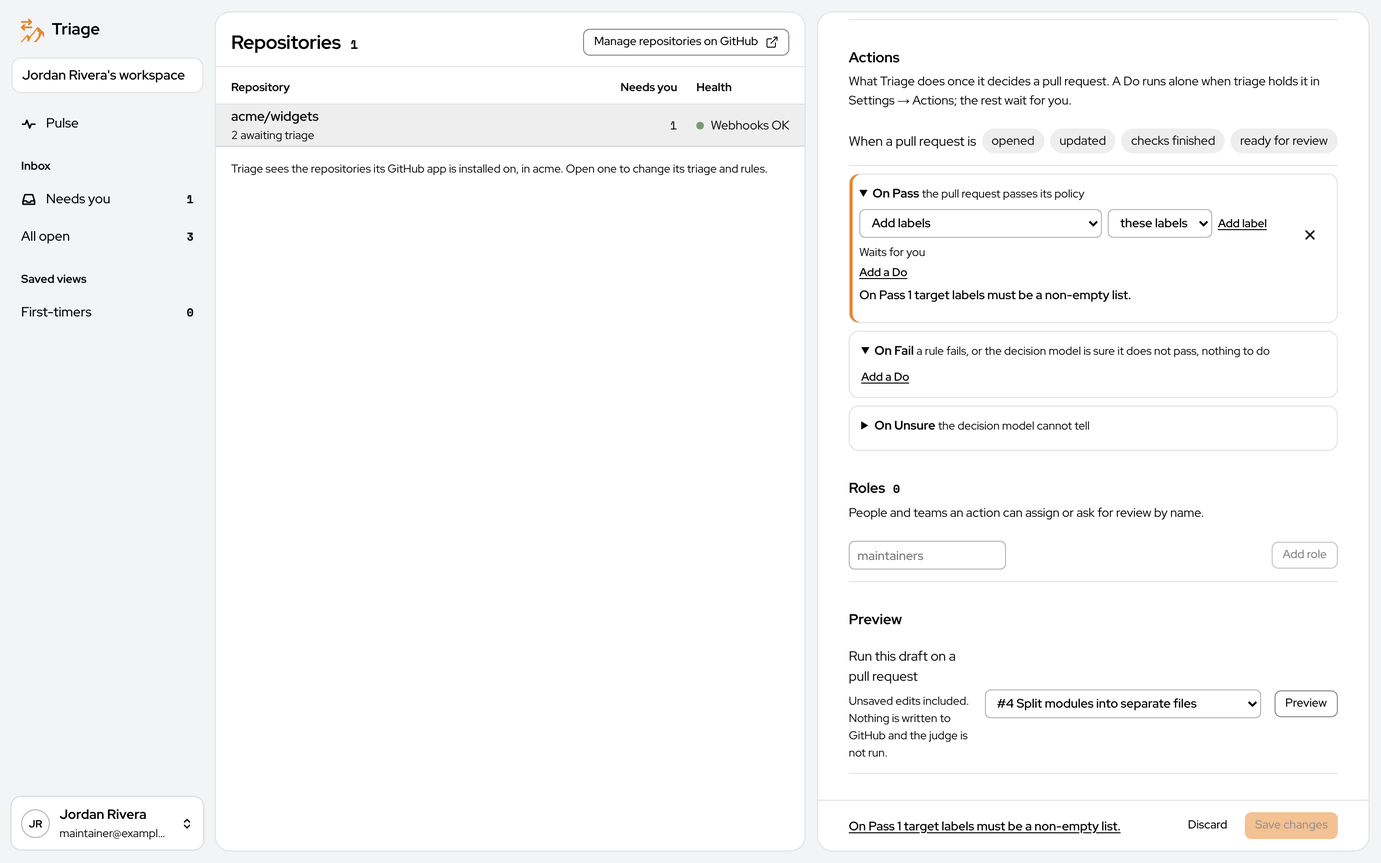
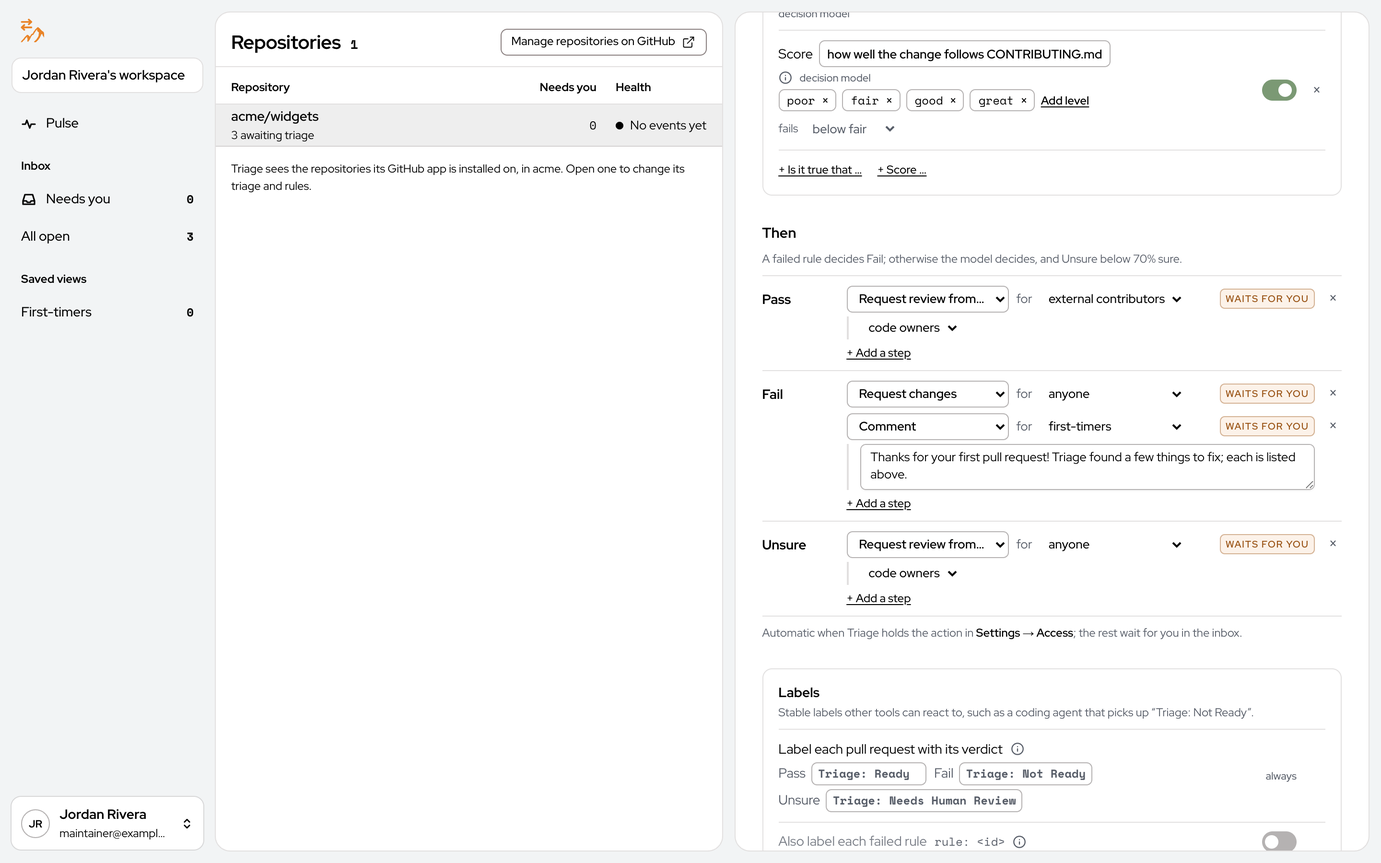
docs(manual): update the user manual for the current portal with fresh screenshots

diff --git a/docs/Corbits Triage User Manual/Corbits Triage User Manual.md b/docs/Corbits Triage User Manual/Corbits Triage User Manual.md
@@ -2,6 +2,16 @@
 
 Oct 13, 2026 · @Brian J. Fox
 
+## Contents
+
+1. [What Corbits Triage is](#what-corbits-triage-is)
+2. [Getting started](#getting-started)
+3. [Setting up a repository: rules, verdicts and actions](#setting-up-a-repository-rules-verdicts-and-actions)
+4. [Day to day: the Inbox](#day-to-day-the-inbox)
+5. [Settings: people, access and workspace configuration](#settings-people-access-and-workspace-configuration)
+6. [The audit log](#the-audit-log)
+7. [Glossary and common questions](#glossary-and-common-questions)
+
 ## What Corbits Triage is
 
 Corbits Triage is an assistant for people who maintain code on GitHub. It looks at every open pull request in the repositories you choose, checks each one against the rules you set, and tells you whether it looks good to merge. Every pull request gets one of three verdicts: **Pass**, **Fail** or **Unsure**, along with a short list of reasons.
@@ -16,7 +26,7 @@ Think of it as a first reader. It does the routine checking (Did the tests pass?
 
 ### What it never does on its own
 
-Nothing runs until you turn it on. Installing the GitHub App only records your repositories, with triage switched off. A repository is checked only after someone turns on **Triage pull requests in this repository** and saves. Even then, a new workspace automates nothing: Triage suggests actions, and a person clicks to carry them out, until you decide which kinds of actions Triage may run by itself.
+Nothing runs until you turn it on. Installing the GitHub App only records your repositories, with triage switched off. A repository is checked only after someone turns on **Triage pull requests in this repository**. Even then, a new workspace automates nothing: Triage suggests actions, and a person clicks to carry them out, until you decide which actions Triage may run by itself, and in which repositories.
 
 ### The three parts
 
@@ -66,75 +76,94 @@ Once all three steps are done, the portal takes you to the Inbox. Nothing appear
 
 ## Setting up a repository: rules, verdicts and actions
 
-Every repository has its own page under **Repositories** in the left rail. That page is where you decide what Triage checks, how it reaches a verdict, and what it does afterward. Nothing on the page takes effect until you press **Save changes** at the bottom.
+Every repository has its own page under **Repositories** in the menu under your name. That page is where you decide what Triage checks, how it reaches a verdict, and what it does afterward. There is no Save button: every change is saved as you make it. The word beside the repository's name says where things stand: **Saving…** while a change is on its way, **Saved** once it is stored, and **Not saved** if something is unfinished or the save failed.
 
-![The repository page for acme/widgets: the triage switch at the top, then the list of rules, each with its own on/off switch](images/06.png)
+![The repository page for acme/widgets: Saved beside the name, the triage switch, the Policy card, and the Size and Checks rule cards, each rule with its own switch](images/06.png)
 
 ### Turning triage on
 
-The switch labeled **Triage pull requests in this repository** is the master control. While it is off, Triage ignores the repository entirely. When you turn it on and save, Triage immediately checks every open pull request, and from then on it reacts to each new pull request event as it happens. The link **Triage open pull requests again** re-checks everything that is currently open, which is useful after you change the rules.
+The switch labeled **Triage pull requests in this repository** is the master control. While it is off, Triage ignores the repository entirely and the rest of the page is grayed out. Switch on at least one rule first; the page tells you if you have not. When you turn triage on, Triage immediately checks every open pull request, and from then on it reacts to each new pull request event as it happens. The link **Triage open pull requests again** re-checks everything that is currently open, which is useful after you change the rules.
+
+### Policy
+
+The **Policy** card says where the repository's rules and actions are kept. At first they are kept in Corbits Triage. Press **Export to repository** to open a pull request that adds them to the repository as a file called `.corbits-triage.yaml`. Once that file is on the default branch, it is the policy: changes to it are reviewed like any other code, and the rules and actions on this page become read-only.
+
+![The Policy card for a repository whose .corbits-triage.yaml was changed on GitHub: Not in sync, with Use file and Edit on GitHub buttons. The rules below are grayed out because the file decides them](images/07.png)
+
+- **Edit on GitHub** opens the file on GitHub.
+- When someone changes the file, the card says **Not in sync** until Triage reads it again. Press **Use file** to read it now.
+- If the file has a mistake, the card says why and Triage keeps using the last policy it could read.
+
+A file can also start from a workspace-wide policy with `extends`, and then set only what differs for this repository. This is useful when many repositories should follow the same rules.
 
 ### Rules
 
-A rule asks one question about a pull request and answers pass, fail or unconfirmed. The **Rules** list shows every rule, each with a switch. Press **Reset to recommended** to load a sensible starting set. The recommended rules are:
+A rule asks one question about a pull request and answers pass, fail or unconfirmed. The rules are grouped into three cards, and each rule has a switch. The heading shows how many are on. Hover over the small **i** beside a rule for a one-line explanation of how it is checked.
 
-- **Flag pull requests over N files changed** and **over N lines changed**. Big changes are hard to review. You choose the limits.
-- **Require a linked issue** from GitHub or Linear. The pull request's description must mention an issue.
-- **Flag merge conflicts with the base branch.**
-- **CI must pass before merge.** The repository's automated checks must be green.
-- **Never accept changes to** certain paths, such as vendored code. Add as many paths as you like.
-- **Check the change is focused on one thing** and **Check docs are updated when behavior changes.** These two carry a **Decision model** tag because they need judgment that GitHub data alone cannot provide. The AI model you connected during setup answers them.
+- **Size**: **Flag pull requests over N files changed** and **over N lines changed**. Big changes are hard to review. You choose the limits.
+- **Checks**, facts GitHub already knows:
+  - **Require a linked issue** from GitHub, Linear or either. The pull request's title, description, commits or branch must mention an issue.
+  - **No merge conflicts with the base branch.**
+  - **CI must pass.** The repository's automated checks must be green. While they are still running, the rule is unconfirmed rather than passed.
+  - **Never accept changes to** certain paths, such as vendored code. Add as many paths as you like.
+- **Judgement**, questions the decision model answers from the diff and the documentation. These are optional, and each carries a **decision model** tag:
+  - **The change is focused on one thing.**
+  - **Docs are updated when behavior changes.**
 
-Two rules always run and have no switch: a draft pull request is never ready, and a pull request with changes requested is waiting on its author.
+Two rules always run and have no switch: a draft pull request waits until it is ready for review, and a pull request with changes requested fails.
 
-Press **Add a rule** to see the other kinds of rules you can add. The plain rules work only from facts GitHub already knows, so they are free and always give the same answer for the same pull request. The decision-model rules cost one model request per pull request.
+Below the Judgement rules you can add up to eight rules of your own. Each one is a question for the decision model:
 
-![The Add a rule menu listing the custom rules: paths must not change, paths must change together, title or branch pattern, label required, diff must not contain, minimum approvals, author is, and the decision-model questions](images/07.png)
+- **+ Is it true that …** asks a yes-or-no question, such as "Is it true that the title says what changed?" The rule fails when the answer is no.
+- **+ Score …** asks the decision model to place the pull request on a scale of levels you name, worst first, such as poor, fair, good and great. Choose the level it **fails** below, or **never** to record the score without failing anyone.
 
-| Rule | What it checks |
-| --- | --- |
-| Paths must not change | Fails when any listed path is touched. |
-| Paths must change together | When one set of paths changes, another must change too. For example, a change to the API must come with a change to its tests. |
-| Title matches a pattern | The title must match a pattern you write. |
-| Branch matches a pattern | The branch name must match a pattern you write. |
-| Label required | A particular label must be on the pull request. |
-| Diff must not contain | Added lines must not contain a pattern, such as a debugging statement. |
-| Minimum approvals | At least this many people must have approved. |
-| Author is | Records who opened it: named people, a role, or a kind of contributor such as a first-timer or a bot. This one informs the verdict but never fails it. |
-| Is it true that... | A yes-or-no question for the decision model. Fails when the answer is no. |
-| Score from 0 to 10 | The decision model scores the pull request. Fails below the minimum you set. |
+![The Judgement card: the two built-in decision-model rules, then an Is it true that rule and a Score rule with the levels poor, fair, good and great and fails below fair](images/08.png)
+
+Rules in the Size and Checks cards only use facts GitHub already knows, so they cost nothing and always give the same answer for the same pull request. Judgement rules cost one model request per pull request.
 
 ### How the verdict is decided
 
-The **Verdict** section explains the decision in plain words, and it updates as you change the rules.
+The **Then** section starts with one line that sums up the decision.
 
-![The Verdict section: Fail as soon as any hard rule fails; Pass when the decision model is at least 70% sure; Fail when it is at least 70% sure the pull request does not pass; Unsure otherwise](images/08.png)
+![The Then section: the line A failed rule decides Fail; otherwise the model decides, and Unsure below 70% sure, then the steps for Pass, Fail and Unsure, each marked Waits for you](images/09.png)
 
-1. If any plain rule fails, the verdict is **Fail** right away. The model is not consulted, so nothing is spent.
-2. Otherwise the decision model reads the whole pull request together with every rule's result and answers one question: does this pull request pass this repository's policy? If it is at least 70% sure the answer is yes, the verdict is **Pass**. If it is at least 70% sure the answer is no, the verdict is **Fail**.
-3. Anything in between is **Unsure**, which means a person should look. Triage never guesses.
+1. If any rule fails, the verdict is **Fail** right away. That includes a Judgement rule the decision model answered no to.
+2. If the repository has no Judgement rules, there is nothing left to judge: the verdict is **Pass** when every rule passes, and **Unsure** when a rule could not be confirmed, such as CI that is still running.
+3. Otherwise the decision model reads the whole pull request together with every rule's result and answers one question: does this pull request pass this repository's policy? If it is at least 70% sure the answer is yes, the verdict is **Pass**. If it is at least 70% sure the answer is no, the verdict is **Fail**. Anything in between is **Unsure**, which means a person should look. A pull request with a Judgement rule the model could not confirm is never more than Unsure.
 
 Draft and closed pull requests are not decided at all.
 
 ### Actions
 
-The **Actions** section says what Triage should do once it has a verdict. First, **When a pull request is** lists the events that wake Triage: opened, updated, checks finished and ready for review. All four are on by default.
+Below the summary line are three lists of steps, one per verdict: **Pass**, **Fail** and **Unsure**. Press **+ Add a step** to add one. Each step names an action and who it is for.
 
-Below that are three lists of Dos, one per verdict: **On Pass**, **On Fail** and **On Unsure**. Press **Add a Do** to add one. A Do can add labels, assign someone, request a review, post a comment, approve, request changes, or close the pull request. By default, On Unsure asks the code owners for a review.
+| Action | What it does |
+| --- | --- |
+| Approve | Approves the pull request on GitHub. |
+| Merge | Merges the pull request. Only on Pass. |
+| Close | Closes the pull request. |
+| Comment | Posts a comment you write. |
+| Request changes | Sends the author a review listing the rules to fix. |
+| Request review from… | Asks the code owners, named people or teams to review. |
+| Assign to… | Assigns the pull request to the author, the code owners, named people or teams. |
+| Add label… | Adds the labels you list. |
 
-![Adding a Do to the On Pass list: a dropdown with Add labels, Assign, Request review, Comment, Approve, Request changes and Close, a label picker, and a note that the Do waits for you](images/09.png)
+The **for** choice limits a step to some authors: **anyone**, **first-timers**, **maintainers**, **external contributors**, **bots**, **a GitHub team…** or **specific people…**. For example, a Fail step can post a friendly comment for first-timers only. By default, Unsure asks the code owners for a review.
 
-Each Do shows whether it **Waits for you** or runs on its own. If something is incomplete, such as a label Do with no labels chosen, the page tells you in red and keeps the **Save changes** button disabled until you fix it.
+Each step shows whether it **Waits for you** or runs on its own. If something is incomplete, such as a comment with no text, the step says **Not saved yet** in red and the rest of your changes are still saved.
 
-Triage only carries out a Do on its own when your workspace allows that kind of Do under Settings → Access. Everything else waits in the Inbox for a person to click. A brand-new workspace automates nothing, so you can watch what Triage suggests before you let it act.
+Triage only carries out an action on its own when the workspace allows that action in that repository under [Settings → Access](#access). Everything else waits in the Inbox for a person to click. A brand-new workspace automates nothing, so you can watch what Triage suggests before you let it act. Two actions are always held for a person: Close on Unsure, and Merge on anything but Pass.
 
-### Roles and Preview
+While a pull request's CI is still running, Triage holds every action, and its comment on GitHub lists them under **Waiting for checks to finish**. They go ahead once the checks are done.
 
-![The Roles and Preview sections: a field to add a role such as maintainers, and a dropdown to run the draft rules against one open pull request](images/10.png)
+### Labels
 
-**Roles** are names for groups of GitHub users or teams, such as maintainers or security. A Do can then say "assign the maintainers" instead of naming people one by one.
+The **Labels** card sets the labels Triage keeps on every pull request so that other tools, such as a coding agent, can react to them.
 
-**Preview** lets you try your draft rules against one open pull request before saving. Pick a pull request from the dropdown and press **Preview**. Nothing is written to GitHub and the decision model is not run, so it is free and safe to repeat.
+![The Labels card: the verdict labels Triage: Ready, Triage: Not Ready and Triage: Needs Human Review, marked always, and the switch Also label each failed rule with rule: <id>](images/10.png)
+
+- **Label each pull request with its verdict** is always on. Triage puts the verdict's label on the pull request and takes the other two off. The defaults are **Triage: Ready** for Pass, **Triage: Not Ready** for Fail and **Triage: Needs Human Review** for Unsure. You can rename them.
+- **Also label each failed rule** adds a label such as `rule: linked-issue` for every rule that failed.
 
 ## Day to day: the Inbox
 
@@ -190,7 +219,7 @@ Expanding **rules passed** shows every rule with a short note on why it passed, 
 
 ### Taking action
 
-The bar at the bottom of the pane always offers the next step first. For a passing pull request that is **Merge**, for a failing one it is **Request changes**, and for an unsure one it is usually **Comment** or **Approve**. The other actions are beside it, and anything else, including the Dos the repository's policy suggested, is under **More**.
+The bar at the bottom of the pane always offers the next step first. For a passing pull request that is **Merge**, for a failing one it is **Request changes**, and for an unsure one it is usually **Comment** or **Approve**. The other actions are beside it, and anything else, including the actions the repository's policy suggested, is under **More**.
 
 ![The More menu open at the bottom of the reading pane, listing Edit feedback, Post reply, Approve, Comment and Triage again](images/15.png)
 
@@ -205,7 +234,7 @@ Anything you do here is also written to the audit log.
 
 ### What the author sees
 
-Authors do not use the portal. Depending on the repository's actions, they see a comment from Triage on their pull request with the verdict and reasons, labels such as **Triage: Ready to merge** or **Triage: Needs changes**, review requests, and assignments. Triage posts one such comment per commit, so an author who pushes a fix gets a fresh verdict.
+Authors do not use the portal. Depending on the repository's actions, they see a comment from Triage on their pull request with the verdict and reasons, labels such as **Triage: Ready**, **Triage: Not Ready** or **Triage: Needs Human Review**, review requests, and assignments. Triage keeps one comment and edits it in place as the pull request changes, so an author who pushes a fix sees the fresh verdict in the same comment. Only when someone changes the repository's policy and that changes the verdict on the same commit does Triage post a new comment, which says it supersedes the one above.
 
 ### Pulse
 
@@ -215,31 +244,33 @@ Authors do not use the portal. Depending on the repository's actions, they see a
 
 ## Settings: people, access and workspace configuration
 
-**Settings** is reached from the menu under your name at the bottom of the left rail. It has six tabs across the top: Triage, GitHub, Integrations, Model, Access and Account. Most teams visit it once during setup and then only to invite people or change who may do what.
+**Settings** is reached from the menu under your name at the bottom of the left rail. It is one page with five sections: Triage, GitHub, Decision model, Access and Your account. The links at the top jump to each section. Most teams visit it once during setup and then only to invite people or change what Triage may do on its own.
 
 ### Triage
 
-Shows the version of each Triage component currently running for your workspace. You do not need to change anything here. It is useful when you report a problem, because support will ask which version you are on.
+![The top of Settings: Workspace settings with the workspace name, people and repository counts, links to each section, and the Triage section saying Triage is running on 1 of 1 repository, followed by the versions it runs and a Copy button](images/22.png)
+
+Says how many repositories Triage is running on, with a **Choose repositories** link, and shows the version of each Triage component currently running for your workspace. You do not need to change anything here. Press **Copy** when you report a problem, because support will ask which versions you are on.
 
 ### GitHub
 
-![The GitHub tab: connection status, the number of installed repositories, the webhook address, a Choose repositories on GitHub button, and the list of connected repositories](images/17.png)
+![The GitHub section: the connected App and its repository, the stored webhook and App secrets with Replace secret and Remove, and the Webhook URL to copy](images/17.png)
 
-This tab shows whether the GitHub App is connected and how many repositories it is installed on. Press **Choose repositories on GitHub** to add or remove repositories. GitHub's own installer opens, and when you come back, any new repository appears under Repositories with triage switched off. The **Webhook** address is what GitHub uses to tell Triage about pull request events. You only need it if you set up the App by hand.
+This section shows whether the GitHub App is connected and which repositories it is installed on. Press **Choose repositories on GitHub** to add or remove repositories. GitHub's own installer opens, and when you come back, any new repository appears under Repositories with triage switched off. **Open Repositories** goes straight to that page.
 
-### Integrations
+Below that are the secrets the App needs: the webhook secret and the App's private key. Each has a **Replace secret** button for rotating it and a **Remove** link. Removing the GitHub App secret disconnects Triage from GitHub, so do that only when you mean to. The **Webhook URL** is what GitHub uses to tell Triage about pull request events. You only need it if you set up the App by hand.
 
-Reserved for other services Triage can connect to, such as Linear for linked issues. If your workspace has none, this tab is empty.
+### Decision model
 
-### Model
+![The Decision model section: Using OpenCode Zen (Jev) with model jev-1.13, the stored inference secret with a Remove link, the choice of providers and an API key field](images/18.png)
 
-![The Model tab: a choice of providers, a Base URL and Model field for a custom provider, an API key field, and a Save decision model button](images/18.png)
-
-This is where the AI decision model lives. Pick one of the listed providers and paste its API key, or choose **Add my own provider** and enter the address of a compatible service. Keys are kept in the server's vault, so after saving the field goes blank and the tab says **API key stored**. To change the key, paste a new one and save again. Every save redeploys Triage's workers, so give it a minute before expecting new verdicts.
+This is where the AI decision model lives. The first line says which provider and model are in use. To change it, pick one of the listed providers and paste its API key, or choose **Add my own provider** and enter the address of a compatible service. Keys are kept in the server's vault, so after saving the field goes blank and the key shows as **stored**. To change the key, paste a new one and save again. Every save redeploys Triage's workers, so give it a minute before expecting new verdicts.
 
 ### Access
 
-![The Access tab: a People list with the owner, an Email field and Role dropdown for inviting someone, and a grid of switches showing which role may approve each kind of action and which actions Triage runs on its own](images/19.png)
+The Access section has three parts: People, who may approve a held action, and what Triage does on its own.
+
+![The People list with the owner and an Email field and Role dropdown for inviting someone, then the grid Who may approve a held action with a row per action and a switch per role](images/19.png)
 
 **People** lists everyone in the workspace with their role. To add a teammate, type their email, choose a role and press **Invite**. They receive a sign-in link that works once and expires after 15 minutes. If your server is not set up to send email, the portal shows you the link to copy and send yourself.
 
@@ -251,13 +282,17 @@ There are three roles:
 | Admin | Manage repositories, rules and people. |
 | Member | Use the Inbox and carry out the actions their role is allowed below. |
 
-**Access** is a grid with one row per kind of action and one column per role, plus a final column called **Triage on its own**. A switch that is on means that role may approve that kind of action when it is waiting in the Inbox. The last column is the important one: when it is on for a kind of action, Triage carries out that action on GitHub by itself during triage, without waiting for anyone. In a new workspace every switch in that column is off. Turn them on one at a time as you gain confidence, starting with low-risk actions such as adding labels.
+**Who may approve a held action** is a grid with one row per action and one column per role. An owner may always approve. A switch that is on means that role may approve that action when it is waiting in the Inbox.
 
-### Account
+![What Triage does on its own: a row per action, with Add labels allowed on its own in acme/widgets and every other action waiting for approval](images/23.png)
 
-![The Account tab: your email, a Sign out button, the list of signed-in devices, and the stored credentials with Update secret and Remove buttons](images/20.png)
+**What Triage does on its own** is the important one. Each action has a list of repositories where Triage carries it out on GitHub by itself during triage, without waiting for anyone. Pick a repository from **Add repository…**, or **All repositories**, to allow it; press × to take it away. An action with no repositories listed waits for approval everywhere. In a new workspace every list is empty. Allow actions one at a time as you gain confidence, starting with low-risk ones such as adding labels. The repository page then marks those steps as running on their own instead of **Waits for you**.
 
-Shows your email address, a **Sign out** button and the browsers you are signed in on. Below that are the secrets your workspace holds: the model key, the webhook secret and the GitHub App key. Each has an **Update secret** button for rotating it and a **Remove** link. Removing the GitHub App secret disconnects Triage from GitHub, so do that only when you mean to.
+### Your account
+
+![Your account: signed in as maintainer@example.com with a Sign out button, and the list of signed-in browsers](images/20.png)
+
+Shows the email address you are signed in with, a **Sign out** button and the browsers you are signed in on. Only you see this section.
 
 ## The audit log
 
@@ -288,12 +323,13 @@ Type in the search box to narrow the list by actor, action or pull request. The 
 | Hub | The Triage server behind the portal. You never use it directly. |
 | GitHub App | The connection between Triage and GitHub. Installing it on a repository lets Triage read pull requests and, if you allow it, write labels, comments and reviews. |
 | Rule | One question Triage asks about a pull request, answered pass, fail or unconfirmed. |
-| Decision model | The AI service that answers questions needing judgment, and that gives the final verdict. |
+| Decision model | The AI service that answers questions needing judgment, and that gives the final verdict when the policy has Judgement rules. |
 | Verdict | Triage's overall answer for one commit of a pull request: Pass, Fail or Unsure. |
 | Score | How sure the decision model is that the pull request passes, from 0 to 1. A score of 0.9 means 90 percent sure. |
-| Do | One action in a repository's policy, such as adding a label or requesting a review. |
-| Held Do | A Do that is waiting for a person to approve it in the Inbox. |
-| Role | Either a workspace role (Owner, Admin, Member) that controls what a person may do in Triage, or a repository role (such as maintainers) that names GitHub users a Do can assign. |
+| Action | One step in a repository's policy, such as adding a label or requesting a review. |
+| Held action | An action that is waiting for a person to approve it in the Inbox. |
+| Policy | A repository's rules, verdict steps and labels. Kept in Triage or in the repository's `.corbits-triage.yaml` file. |
+| Role | A workspace role (Owner, Admin, Member) that controls what a person may do in Triage. |
 | CI | Continuous integration: the automated tests and checks a repository runs on every pull request. |
 | Draft | A pull request its author has marked as not ready. Triage waits until it is marked ready. |
 | First-timer | Someone opening their first pull request in a repository. |
@@ -304,18 +340,18 @@ Type in the search box to narrow the list by actor, action or pull request. The 
 
 **Triage says Unsure. What should I do?** Read the pull request yourself. Unsure means the rules did not catch a problem but the decision model was not confident either way. Approve, request changes or comment as you would normally. If a rule could not run because GitHub had not finished computing something, such as CI, Triage will check again on its own.
 
-**A pull request shows "Not triaged yet" for a long time.** Check that triage is on for its repository, that the GitHub App is still connected under Settings → GitHub, and that a decision model is saved under Settings → Model. If all three look right, open the repository and press **Triage open pull requests again**.
+**A pull request shows "Not triaged yet" for a long time.** Check that triage is on for its repository, that the GitHub App is still connected under Settings → GitHub, and that a decision model is saved under Settings → Decision model. If all three look right, open the repository and press **Triage open pull requests again**.
 
-**Does Triage ever merge, close or approve on its own?** Only if you turn that on. Each kind of action has a switch in the **Triage on its own** column under Settings → Access, and all of them start off. Close is never run automatically on an Unsure verdict even when its switch is on.
+**Does Triage ever merge, close or approve on its own?** Only if you allow it. Each action has a list of repositories under **What Triage does on its own** in Settings → Access, and every list starts empty. Close is never run automatically on an Unsure verdict, and Merge never on anything but Pass, even when they are allowed.
 
-**Why did Triage not call the decision model for a failing pull request?** When a plain rule fails, the answer is already Fail, so the model is not asked. This saves money and keeps verdicts predictable.
+**Why did Triage not call the decision model for a failing pull request?** When a rule fails, the answer is already Fail, so the model is not asked the verdict question. A repository with no Judgement rules never asks it at all. This saves money and keeps verdicts predictable.
 
-**The author pushed a fix. Do I need to do anything?** No. Every new commit gets its own verdict, and Triage posts a fresh comment. If you had requested changes through Triage and every failed rule is now fixed, Triage withdraws the request for you.
+**The author pushed a fix. Do I need to do anything?** No. Every new commit gets its own verdict, and Triage updates its comment. If you had requested changes through Triage and every failed rule is now fixed, Triage withdraws the request for you.
 
-**Can I try new rules without affecting anyone?** Yes. On the repository page, change the rules, then use **Preview** at the bottom to run the draft against one open pull request. Nothing is written to GitHub. Press **Discard** if you do not want to keep the changes.
+**Can I try new rules without affecting anyone?** Changes on the repository page take effect as soon as they are saved, and actions that Triage does not run on its own still wait for a person. To have rule changes reviewed first, keep the policy in the repository's `.corbits-triage.yaml` and change it through a pull request.
 
 **Where do I change my password?** Sign out, then use **Forgot password?** on the sign-in screen. A reset link is sent to your email.
 
 **How do I remove someone from the workspace?** An Owner or Admin can change or remove a person's role under Settings → Access.
 
-**Something looks wrong. What should I tell support?** The repository name and pull request number, what you expected, what you saw, and the versions listed under Settings → Triage. The audit log's **Export** button gives support a record of what happened.
+**Something looks wrong. What should I tell support?** The repository name and pull request number, what you expected, what you saw, and the versions listed under Settings → Triage (use its **Copy** button). The audit log's **Export** button gives support a record of what happened.
